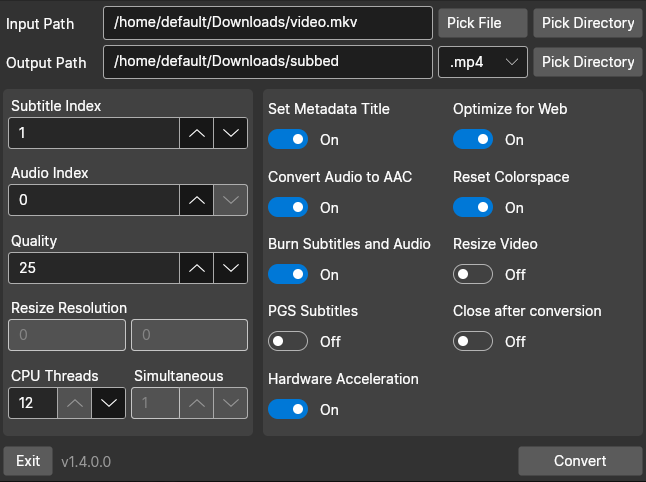
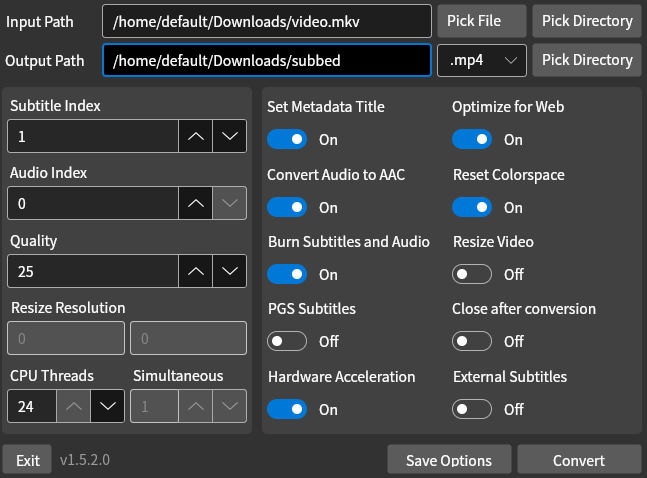
Added external subtitles support

diff --git a/HardSubberGUI/Tools.cs b/HardSubberGUI/Tools.cs
@@ -256,11 +256,35 @@ namespace HardSubberGUI
 			
 			process.StartInfo.Arguments += $"-i '{info.FullName}' ";
 			
+			var subsFilter = "";
+			var streamIndex = "";
+			
 			var scaleString = conversionOptions.Resize ? $"scale={conversionOptions.ResizeResolution[0]}:{conversionOptions.ResizeResolution[1]}," : "";
-
+			
 			var escaped = info.FullName;
 			escaped = !OSTools.IsWindows ? FileTools.Escape.Aggregate(info.FullName, (current, str) => current.Replace(str, "\\\\\\" + str)) : FileTools.EscapeWindowsString(escaped);
 
+			if (conversionOptions.ExternalSubs)
+			{
+				var newPath = escaped[..^info.Extension.Length];
+				
+				if (File.Exists(newPath + ".srt"))
+				{
+					escaped = newPath + ".srt";
+					subsFilter = "subtitles";
+				}
+				else if (File.Exists(newPath + ".ass"))
+				{
+					escaped = newPath + ".ass";
+					subsFilter = "ass";
+				}
+			}
+			else
+			{
+				subsFilter = "subtitles";
+				streamIndex = $":stream_index={conversionOptions.SubtitleIndex}";
+			}
+			
 			if (conversionOptions.UseHWAccel)
 			{
 				switch (OSTools.CurrentGPU)
@@ -270,7 +294,7 @@ namespace HardSubberGUI
 						if (OSTools.IsWindows)
 						{
 							if (conversionOptions.BurnSubsAndAudio)
-								process.StartInfo.Arguments += $"-filter_complex {scaleString}subtitles={escaped}:stream_index={conversionOptions.SubtitleIndex},format=nv12 ";
+								process.StartInfo.Arguments += $"-filter_complex {scaleString}{subsFilter}={escaped}{streamIndex},format=nv12 ";
 							else
 								process.StartInfo.Arguments += $"-filter_complex {scaleString}format=nv12 ";
 							
@@ -279,7 +303,7 @@ namespace HardSubberGUI
 						else
 						{
 							if (conversionOptions.BurnSubsAndAudio)
-								process.StartInfo.Arguments += $"-filter_complex {scaleString}subtitles={escaped}:stream_index={conversionOptions.SubtitleIndex},format=nv12,hwupload ";
+								process.StartInfo.Arguments += $"-filter_complex {scaleString}{subsFilter}={escaped}{streamIndex},format=nv12,hwupload ";
 							else
 								process.StartInfo.Arguments += $"-filter_complex {scaleString}format=nv12,hwupload ";
 
@@ -290,7 +314,7 @@ namespace HardSubberGUI
 					case EGPU.NVIDIA:
 					{
 						if (conversionOptions.BurnSubsAndAudio)	
-							process.StartInfo.Arguments += $"-filter_complex {scaleString}subtitles={escaped}:stream_index={conversionOptions.SubtitleIndex},format=nv12,hwupload_cuda ";
+							process.StartInfo.Arguments += $"-filter_complex {scaleString}{subsFilter}={escaped}{streamIndex},format=nv12,hwupload_cuda ";
 						else
 							process.StartInfo.Arguments += $"-filter_complex {scaleString}format=nv12,hwupload_cuda ";
 						
@@ -310,7 +334,7 @@ namespace HardSubberGUI
 					if (conversionOptions.UsePGS)
 						process.StartInfo.Arguments += $"-filter_complex [0:v][0:s:{conversionOptions.SubtitleIndex}]overlay[v] -map [v] ";
 					else
-						process.StartInfo.Arguments += $"-filter_complex {scaleString}subtitles={escaped}:stream_index={conversionOptions.SubtitleIndex} ";
+						process.StartInfo.Arguments += $"-filter_complex {scaleString}{subsFilter}={escaped}:stream_index={conversionOptions.SubtitleIndex} ";
 				}
 
 				process.StartInfo.Arguments += "-c:v libx264 ";

diff --git a/HardSubberGUI/Structs/SConversionOptions.cs b/HardSubberGUI/Structs/SConversionOptions.cs
@@ -20,6 +20,7 @@ namespace HardSubberGUI.Structs
 		public bool FastStart;
 		public bool Resize;
 		public bool CloseAfterwards;
+		public bool ExternalSubs;
 
 		public ESupportedFormat Format;
 
@@ -46,6 +47,7 @@ namespace HardSubberGUI.Structs
 			options.UsePGS = MainWindow.Instance.PGSSubsControl.IsChecked.Value;
 			options.Resize = MainWindow.Instance.ApplyResizeControl.IsChecked.Value;
 			options.CloseAfterwards = MainWindow.Instance.ExitAfterwardsControl.IsChecked.Value;
+			options.ExternalSubs = MainWindow.Instance.ExternalSubsControl.IsChecked.Value;
 			options.ResizeResolution = new[] { (int)MainWindow.Instance.ResolutionOverrideWidthControl.Value, (int)MainWindow.Instance.ResolutionOverrideHeightControl.Value };
 			options.SubtitleIndex = (int)MainWindow.Instance.SubtitleIndexControl.Value;
 			options.AudioIndex = (int)MainWindow.Instance.AudioIndexControl.Value;
@@ -69,6 +71,7 @@ namespace HardSubberGUI.Structs
 			MainWindow.Instance.PGSSubsControl.IsChecked = UsePGS;
 			MainWindow.Instance.ApplyResizeControl.IsChecked = Resize;
 			MainWindow.Instance.ExitAfterwardsControl.IsChecked = CloseAfterwards;
+			MainWindow.Instance.ExternalSubsControl.IsChecked = ExternalSubs;
 			MainWindow.Instance.ResolutionOverrideWidthControl.Value = ResizeResolution[0];
 			MainWindow.Instance.ResolutionOverrideHeightControl.Value = ResizeResolution[1];
 			MainWindow.Instance.SubtitleIndexControl.Value = SubtitleIndex;

diff --git a/HardSubberGUI/ViewModels/MainWindowViewModel.cs b/HardSubberGUI/ViewModels/MainWindowViewModel.cs
@@ -36,6 +36,7 @@ namespace HardSubberGUI.ViewModels
 		public static string ApplySubsTooltip => "Apply subtitles and audio";
 		public static string ApplyResizeTooltip => "Resize the video\nHardware Acceleration is not used for this";
 		public static string AACTooltip => "Convert audio codec to AAC\nCan fix not loading in cytu.be";
+		public static string ExternalSubsTooltip => "Use external subtitles\nMust be an .ass or .srt file next to the video file with the same name";
 		
 		#endregion
 		
@@ -61,6 +62,7 @@ namespace HardSubberGUI.ViewModels
 		public static string Resize => "Resize Video";
 		public static string Colorspace => "Reset Colorspace";
 		public static string ExitAfterwards => "Close after conversion";
+		public static string ExternalSubs => "External Subtitles";
 
 		#endregion
 		

diff --git a/HardSubberGUI/Views/MainWindow.axaml.cs b/HardSubberGUI/Views/MainWindow.axaml.cs
@@ -128,6 +128,24 @@ namespace HardSubberGUI.Views
 			
 			if (!ApplyResizeControl.IsEnabled)
 				ApplyResizeControl.IsChecked = false;
+			
+			ExternalSubsControl.IsEnabled = !(bool)PGSSubsControl.IsChecked!;
+			
+			if (!ExternalSubsControl.IsEnabled)
+				ExternalSubsControl.IsChecked = false;
+		}
+		
+		private void ExternalSubsControl_OnPropertyChanged(object? sender, AvaloniaPropertyChangedEventArgs e)
+		{
+			if (!initialized)
+				return;
+			
+			PGSSubsControl.IsEnabled = !(bool)ExternalSubsControl.IsChecked!;
+			
+			if (!PGSSubsControl.IsEnabled)
+				PGSSubsControl.IsChecked = false;
+			
+			SubtitleIndexControl.IsEnabled = !(bool)ExternalSubsControl.IsChecked!;
 		}
 		
 		public void BackgroundTasks()
